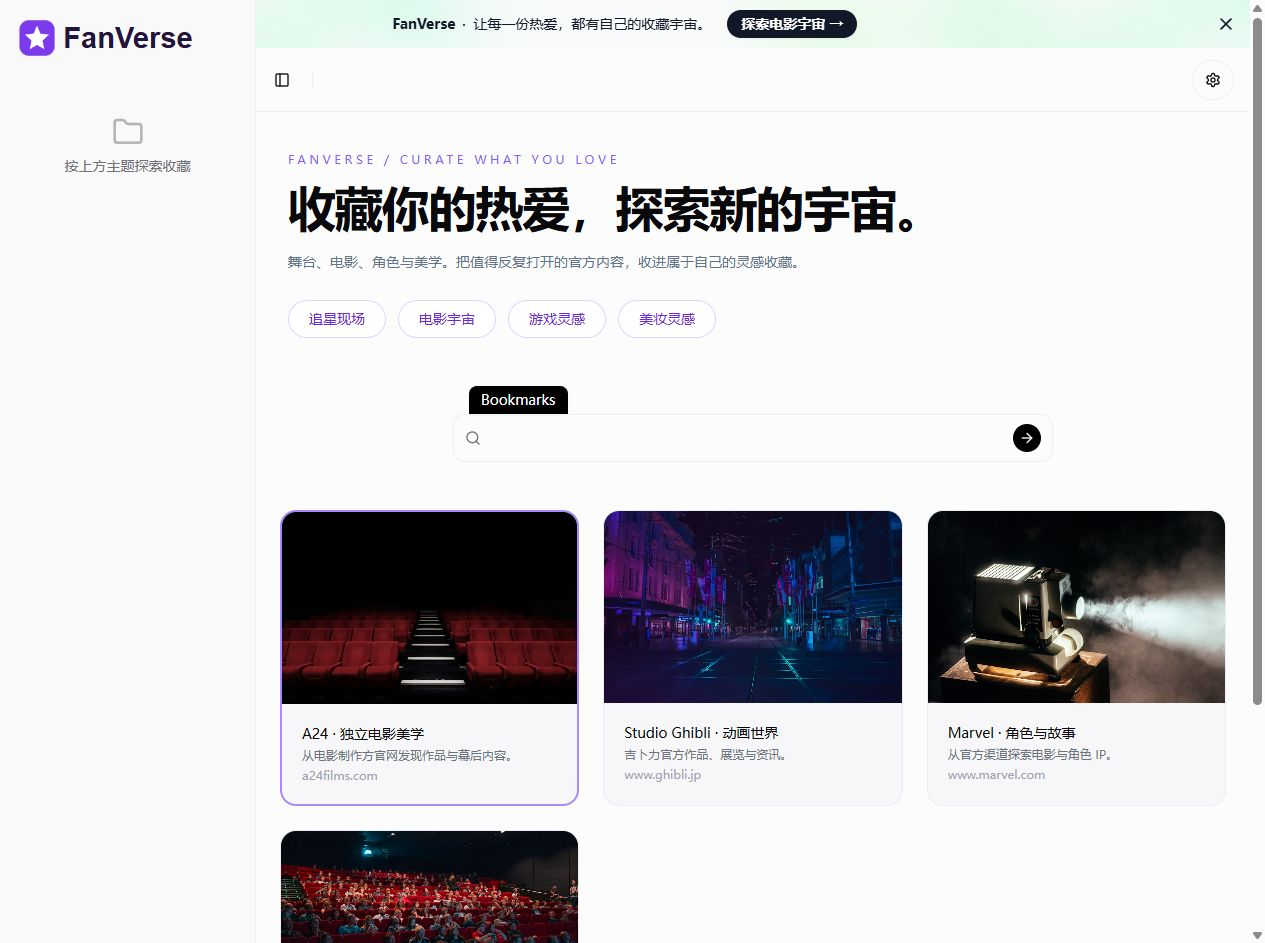
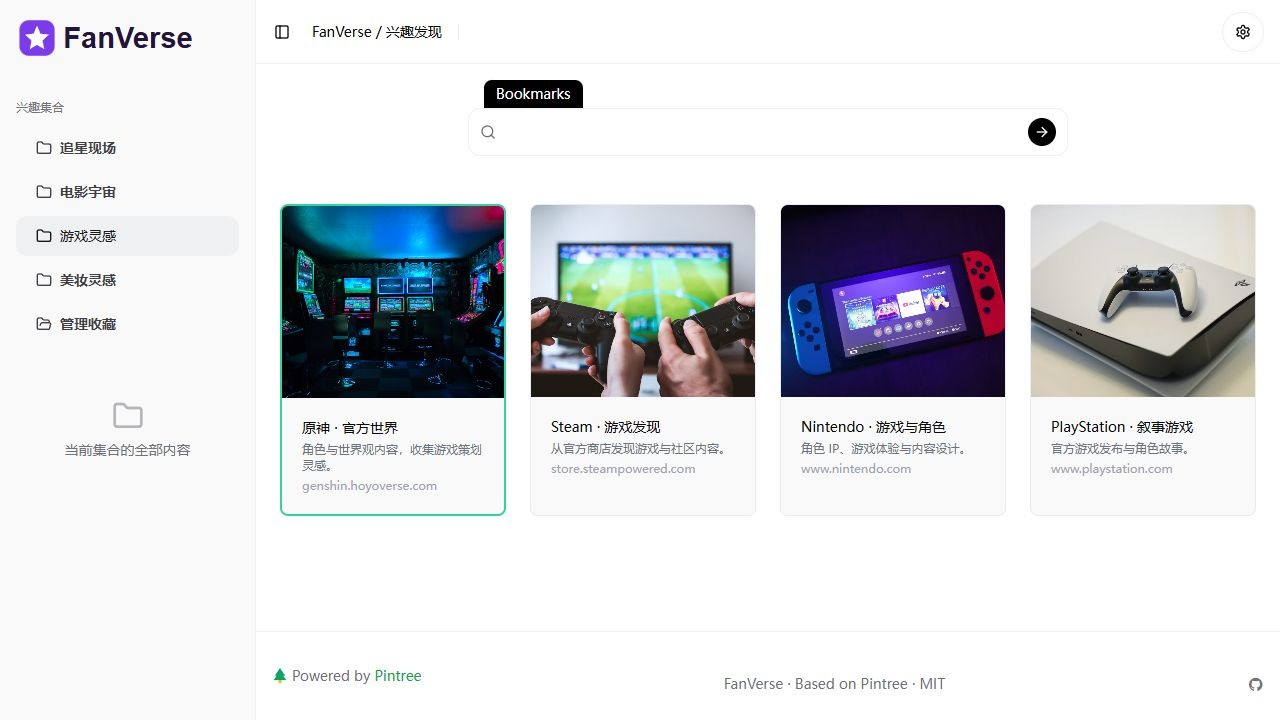
Restore Pintree content layout and collection navigation

diff --git a/src/app/page.tsx b/src/app/page.tsx
@@ -103,7 +103,7 @@ function SearchParamsComponent() {
 
   return (
     <div className="flex min-h-screen flex-col bg-background">
-      <TopBanner />
+
       <div className="flex flex-1">
         <SidebarProvider>
           {
@@ -120,14 +120,13 @@ function SearchParamsComponent() {
                 onCollectionChange={handleCollectionChange}
                 onFolderSelect={handleFolderSelect}
               />
-              <div className="flex flex-1 flex-col space-y-8">
+              <div className="flex min-w-0 flex-1 flex-col">
                 <Header
                   selectedCollectionId={selectedCollectionId}
                   currentFolderId={currentFolderId}
                   onBookmarkAdded={refreshData}
                 />
                 <div className="flex-1 overflow-y-auto">
-                  <section className="px-6 pb-8 pt-2 md:px-8"><p className="mb-4 text-xs uppercase tracking-[.3em] text-violet-500">FANVERSE / CURATE WHAT YOU LOVE</p><h1 className="mb-4 text-3xl font-semibold tracking-tight md:text-5xl">收藏你的热爱，探索新的宇宙。</h1><p className="max-w-2xl text-sm leading-7 text-slate-500">舞台、电影、角色与美学。把值得反复打开的官方内容，收进属于自己的灵感收藏。</p><div className="mt-6 flex flex-wrap gap-3">{[["music","追星现场"],["film","电影宇宙"],["games","游戏灵感"],["beauty","美妆灵感"]].map(([slug,title]) => <a href={"/?collection="+slug} key={slug} className="rounded-full border border-violet-200 bg-white px-5 py-2 text-sm text-violet-700 transition hover:bg-violet-50">{title}</a>)}</div></section>
                   <BookmarkGrid
                     key={`${selectedCollectionId}-${currentFolderId}`}
                     collectionId={selectedCollectionId}

diff --git a/src/components/website/sidebar.tsx b/src/components/website/sidebar.tsx
@@ -385,6 +385,23 @@ export function WebsiteSidebar({
       </SidebarHeader>
       <SidebarContent className="flex-1 min-h-0 overflow-y-auto hide-scrollbar">
         <SidebarGroup>
+          <div className="px-2 pb-3 pt-4 text-xs font-medium text-muted-foreground">兴趣集合</div>
+          <SidebarMenu>
+            {collections.map(collection => (
+              <SidebarMenuItem key={collection.id}>
+                <SidebarMenuButton isActive={collection.id === selectedCollectionId}
+                  onClick={() => onCollectionChange?.(collection.id)}>
+                  <Folder className="h-4 w-4" />
+                  <span>{collection.name}</span>
+                </SidebarMenuButton>
+              </SidebarMenuItem>
+            ))}
+            <SidebarMenuItem>
+              <SidebarMenuButton asChild><Link href="/admin/collections"><FolderOpen className="h-4 w-4" /><span>管理收藏</span></Link></SidebarMenuButton>
+            </SidebarMenuItem>
+          </SidebarMenu>
+        </SidebarGroup>
+        <SidebarGroup>
           <SidebarMenu>
             {loading ? (
               <SidebarSkeleton />
@@ -393,7 +410,7 @@ export function WebsiteSidebar({
             ) : (
               <div className="flex flex-col items-center justify-center px-4 py-8 text-sm text-muted-foreground space-y-2">
                 <Folder className="h-8 w-8 opacity-50" />
-                <span>按上方主题探索收藏</span>
+                <span>当前集合的全部内容</span>
               </div>
             )}
           </SidebarMenu>

diff --git a/src/components/bookmark/BookmarkCard.tsx b/src/components/bookmark/BookmarkCard.tsx
@@ -40,9 +40,9 @@ export function BookmarkCard({
       className={`
         cursor-pointer flex flex-col items-stretch overflow-hidden transition-all hover:-translate-y-1 hover:shadow-lg
         bg-card/50 dark:bg-gray-900 border border-[#eaebf3]
-        dark:ring-gray-800 rounded-2xl hover:bg-card
+        dark:ring-gray-800 rounded-lg hover:bg-card
         dark:hover:bg-gray-800
-        ${isFeatured ? 'border-2 border-violet-400' : ''}
+        ${isFeatured ? 'border-2 border-emerald-400' : ''}
       `}
     >
       <div className="relative w-full h-48 flex-shrink-0">

diff --git a/src/components/website/header.tsx b/src/components/website/header.tsx
@@ -62,7 +62,7 @@ export function Header({
   return (
     <header className="flex h-16 shrink-0 items-center justify-between gap-2 border-b px-4">
       <div className="flex items-center gap-4">
-        <SidebarTrigger className="-ml-1" />
+        <SidebarTrigger className="-ml-1" /><span className="text-sm font-medium">FanVerse / 兴趣发现</span>
         <Separator orientation="vertical" className="h-4" />
       </div>
       

diff --git a/src/app/globals.css b/src/app/globals.css
@@ -93,5 +93,3 @@
 .hide-scrollbar::-webkit-scrollbar {
   display: none;             /* Chrome, Safari and Opera */
 }
-/* FanVerse theme extension; base Pintree layout is retained. */
-:root { --primary: 263 70% 50%; --ring: 263 70% 50%; --background: 270 25% 99%; }

diff --git a/README.md b/README.md
@@ -8,7 +8,7 @@
 
 - 4 个主题集合：追星现场、电影宇宙、游戏灵感、美妆灵感。
 - 16 条官方内容入口与视觉样例，保留搜索、集合切换、卡片/列表功能。
-- FanVerse 紫色品牌主题。
+- 恢复 Pintree 的内容优先布局，使用侧栏切换集合，删除额外营销大标语。
 - SQLite 本地演示配置，免 PostgreSQL 服务器。
 
 ## 运行

diff --git a/docs/UI_CUSTOMIZATION.md b/docs/UI_CUSTOMIZATION.md
@@ -1,0 +1,3 @@
+# UI customization
+
+The complete upstream application is retained. The 2026-10-08 update removes the added marketing hero and restores the upstream page structure. Content, local demo data, branding and navigation are customized; the upstream authors and licenses remain credited.
